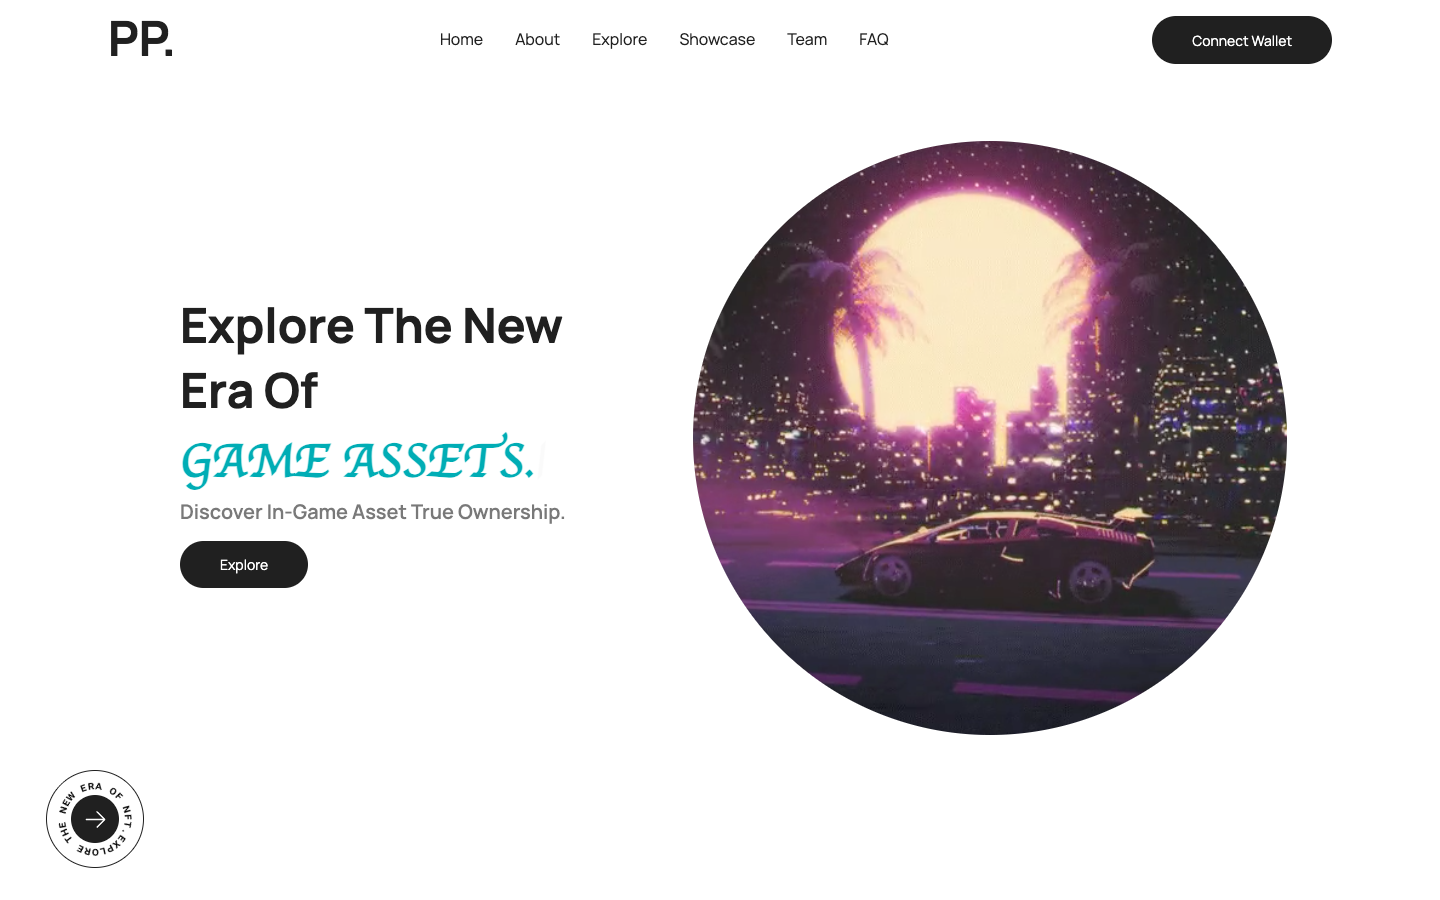
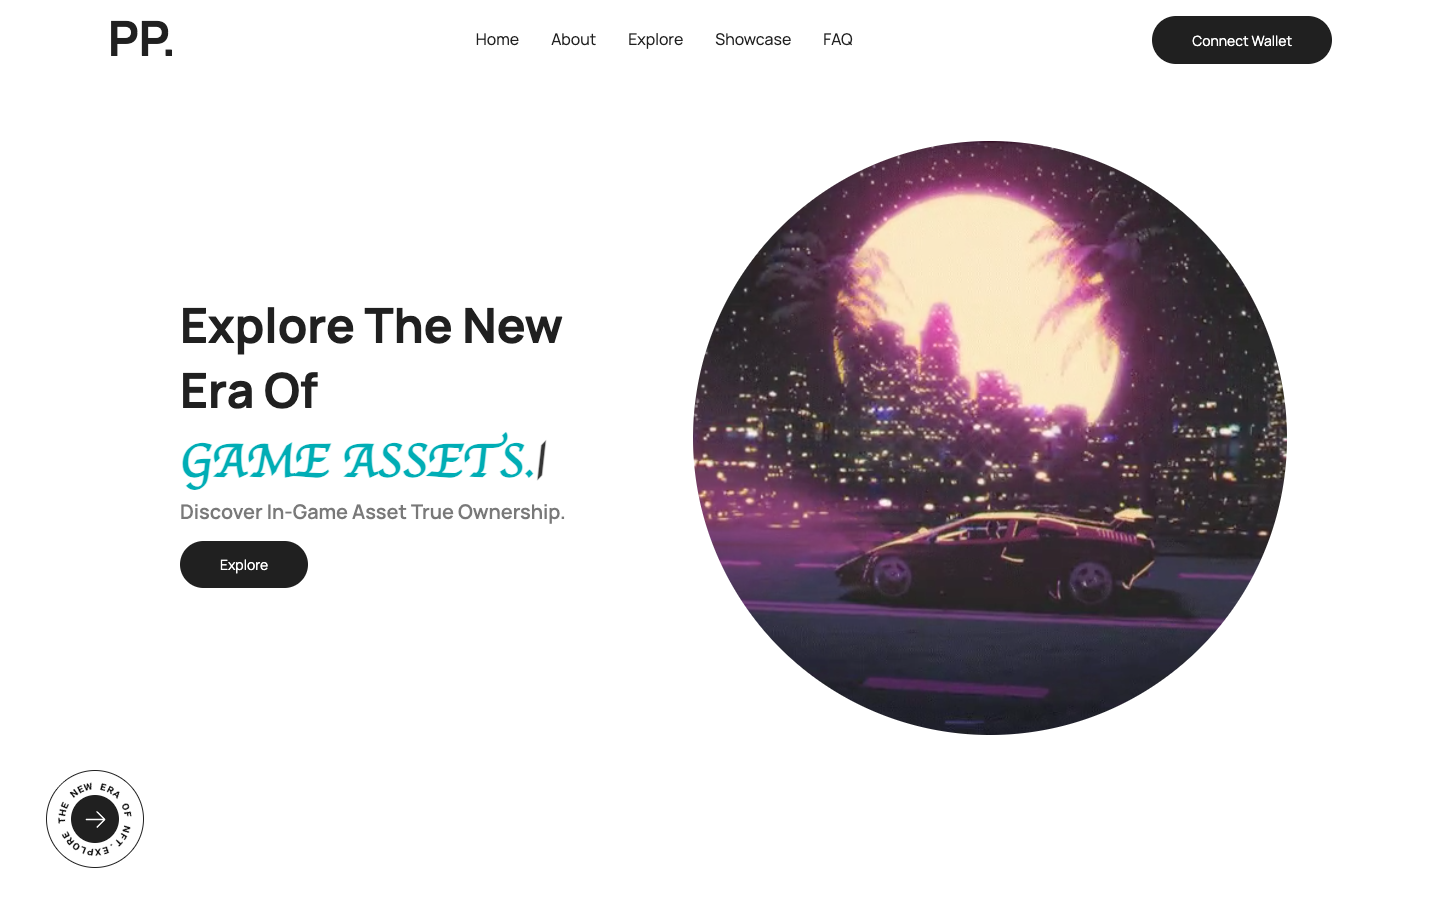
fix: remove team names from landing page

diff --git a/apps/web/app/presentation/routes/home.tsx b/apps/web/app/presentation/routes/home.tsx
@@ -2,7 +2,7 @@
  * Home/landing page route component.
  *
  * Renders the public-facing landing page with navigation,
- * hero section, about, features, team, and FAQ sections.
+ * hero section, about, features, and FAQ sections.
  * @module
  */
 
@@ -14,7 +14,6 @@ import { Home } from '@presentation/components/landing/home'
 import { NavigationBar } from '@presentation/components/landing/navigation-bar'
 import { ScrollToTop } from '@presentation/components/landing/scroll-to-top'
 import { Showcase } from '@presentation/components/landing/showcase'
-import { Team } from '@presentation/components/landing/team'
 import { LightTheme } from '@presentation/styles/theme-definitions'
 import { ThemeProvider } from 'styled-components'
 import type { Route } from './+types/home'
@@ -33,7 +32,6 @@ export default function HomePage() {
       <About />
       <Explore />
       <Showcase />
-      <Team />
       <Faq />
       <Footer />
       <ScrollToTop />

diff --git a/apps/web/app/presentation/components/landing/footer.tsx b/apps/web/app/presentation/components/landing/footer.tsx
@@ -32,7 +32,6 @@ const MENU_ITEM_MAP = [
   { id: 'about', name: 'About' },
   { id: 'explore', name: 'Explore' },
   { id: 'showcase', name: 'Showcase' },
-  { id: 'team', name: 'Team' },
   { id: 'faq', name: 'FAQ' }
 ]
 

diff --git a/apps/web/app/presentation/components/landing/navigation-bar.tsx b/apps/web/app/presentation/components/landing/navigation-bar.tsx
@@ -13,7 +13,6 @@ const MENU_ITEM_MAP = [
   { id: 'about', name: 'About' },
   { id: 'explore', name: 'Explore' },
   { id: 'showcase', name: 'Showcase' },
-  { id: 'team', name: 'Team' },
   { id: 'faq', name: 'FAQ' }
 ]
 
